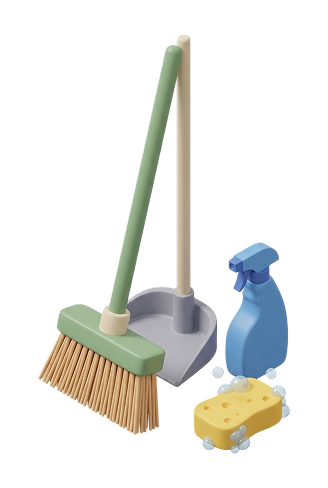
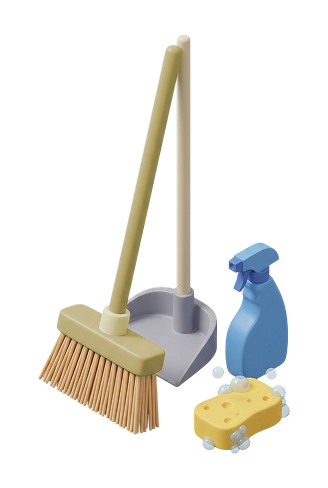
feat: change primary color (#144)

Changed region(s): [[0.3354, 0.0922, 0.5793, 0.6455], [0.1524, 0.6148, 0.5183, 0.7684]]

diff --git a/src/styles.css b/src/styles.css
@@ -64,10 +64,10 @@ html {
   --text-caption--font-weight: 400;
   --text-caption--line-height: 15px;
 
-  /* Primary (deep pink) */
-  --color-primary: #db2777;
-  --color-primary-light: #fdf2f8;
-  --color-primary-muted: #ec4899;
+  /* Primary (brown + yellow) */
+  --color-primary: #d68f2a;
+  --color-primary-light: #fff9e3;
+  --color-primary-muted: #fae29a;
 
   /* Text */
   --color-text-primary: #1a1a1a;

diff --git a/src/features/inspector/views/screens/inspection-list-screen.tsx b/src/features/inspector/views/screens/inspection-list-screen.tsx
@@ -51,7 +51,7 @@ export namespace InspectionListScreen {
     inspectionTime: string;
     roomNumber: string;
     residents: { name: string }[];
-    status: ApplicationStatus | null;
+    status?: ApplicationStatus | null;
   };
 
   export type Props = {

diff --git a/src/features/inspector/views/components/inspection-schedule-card/index.tsx b/src/features/inspector/views/components/inspection-schedule-card/index.tsx
@@ -60,7 +60,7 @@ export namespace InspectionScheduleCard {
     time: Dayjs;
     roomLabel: string;
     residentName: string;
-    status: ApplicationStatus | null;
+    status?: ApplicationStatus | null;
     className?: string;
   }
 
